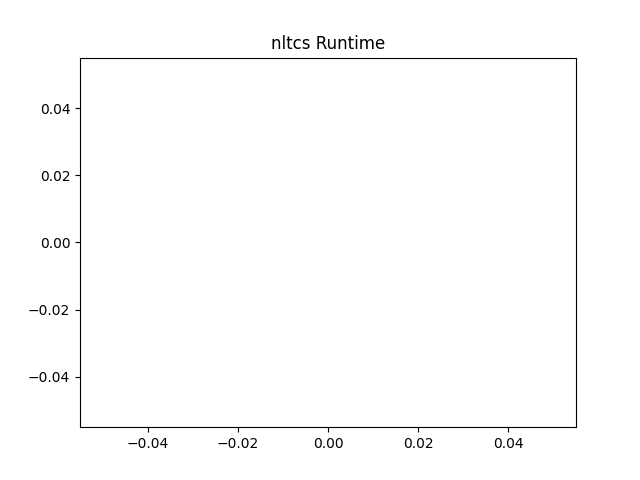
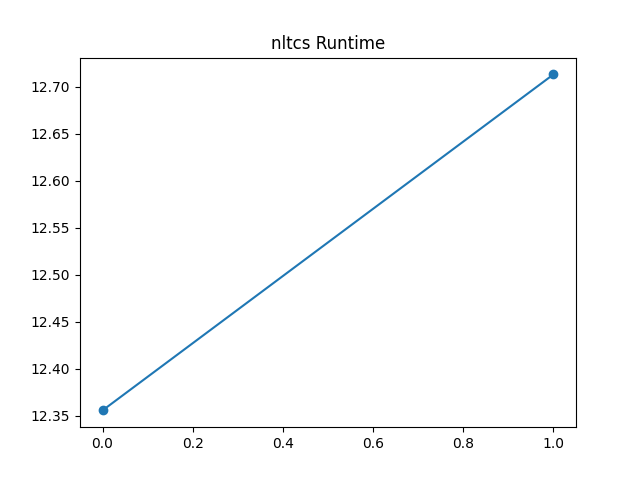
Time

diff --git a/src/learnspn2.py b/src/learnspn2.py
@@ -108,7 +108,7 @@ for dataset in datasets:
 
 		plt.close()
 		# plot line 
-		plt.plot(ll, marker="o") 
+		plt.plot(run, marker="o") 
 		plt.title(f"{dataset} Runtime")
 		plt.savefig(f"{path}/{dataset}/runtime.png", dpi=100)
 		plt.close()
